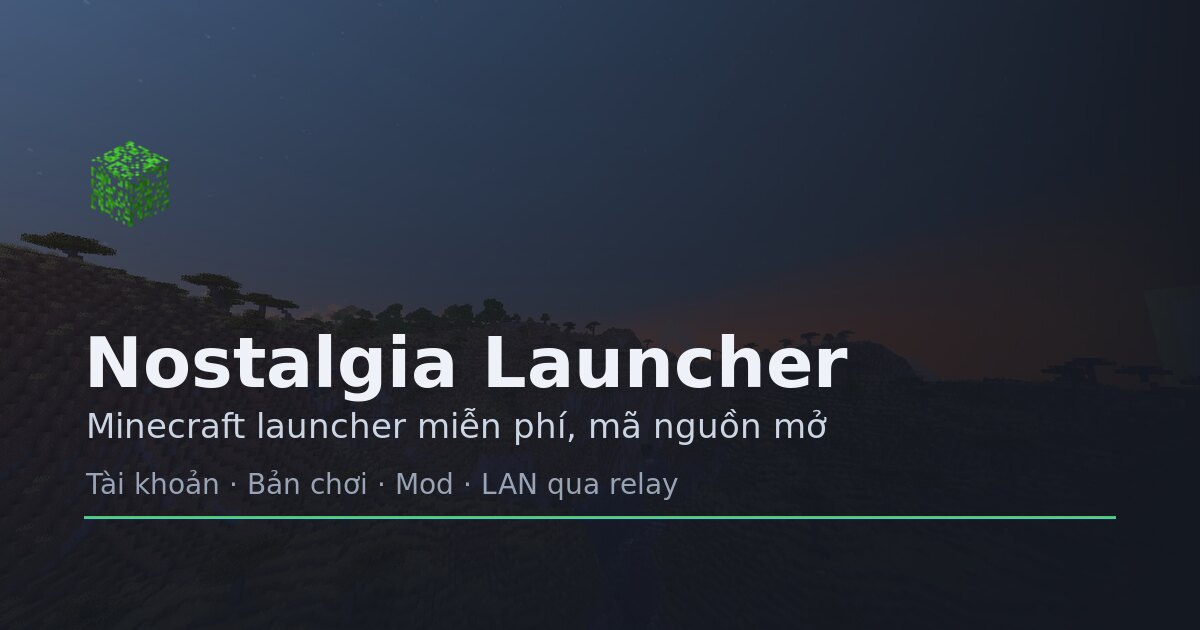
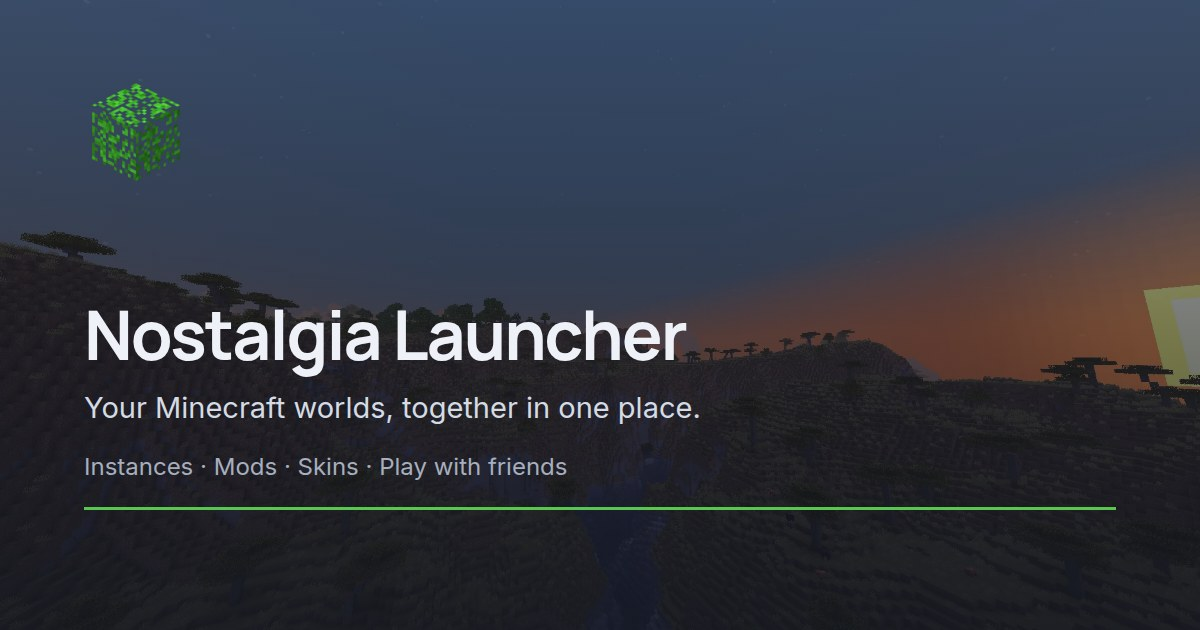
Refresh the English share preview card

diff --git a/bench/site_card.html b/bench/site_card.html
@@ -1,0 +1,51 @@
+<!doctype html>
+<!-- Nguồn ảnh chia sẻ: render 1200×630 bằng trình duyệt, xuất JPEG vào docs/site/og-card.jpg.
+     Dùng lại ảnh, logo và font của trang tải; không gọi dịch vụ bên ngoài. -->
+<html lang="en">
+  <head>
+    <meta charset="utf-8" />
+    <title>Nostalgia Launcher share card</title>
+    <style>
+      @font-face {
+        font-family: Inter;
+        src: url("../docs/site/fonts/Inter-Regular.ttf");
+      }
+      @font-face {
+        font-family: Manrope;
+        src: url("../docs/site/fonts/Manrope-Bold.ttf");
+        font-weight: 700;
+      }
+      * { box-sizing: border-box; }
+      body {
+        margin: 0;
+        width: 1200px;
+        height: 630px;
+        overflow: hidden;
+        color: #eef1f7;
+        background:
+          linear-gradient(180deg, #14182155, #141821cc),
+          url("../docs/site/hero.webp") center / cover;
+        font-family: Inter, sans-serif;
+      }
+      main { padding: 80px 84px; }
+      img { width: 104px; height: 104px; }
+      h1 {
+        margin: 106px 0 0;
+        font: 700 68px / 1.2 Manrope, sans-serif;
+        letter-spacing: -2px;
+      }
+      p { margin: 14px 0 0; font-size: 29px; color: #d4dbe5; }
+      .features { margin-top: 27px; font-size: 24px; color: #a6afbf; }
+      .line { height: 3px; margin-top: 26px; background: #5ac54f; }
+    </style>
+  </head>
+  <body>
+    <main>
+      <img src="../docs/site/logo.webp" alt="" />
+      <h1>Nostalgia Launcher</h1>
+      <p>Your Minecraft worlds, together in one place.</p>
+      <p class="features">Instances · Mods · Skins · Play with friends</p>
+      <div class="line"></div>
+    </main>
+  </body>
+</html>

diff --git a/docs/site/index.html b/docs/site/index.html
@@ -27,7 +27,7 @@
     />
     <meta
       property="og:image"
-      content="https://junxmas.github.io/NostalgiaLauncher/site/og-card.jpg"
+      content="https://junxmas.github.io/NostalgiaLauncher/site/og-card.jpg?v=english"
     />
     <meta property="og:image:width" content="1200" />
     <meta property="og:image:height" content="630" />

diff --git a/docs/site/CREDITS.md b/docs/site/CREDITS.md
@@ -55,6 +55,13 @@ nhánh thiết kế đã kiểm tra ở rc11. Chuyển sang WebP q82 để giả
 Key art bên trong launcher có nguồn ghi tại
 `src/nostalgia/ui/qml/assets/keyart/CREDITS.md`; icon dự án thuộc tác giả tương ứng.
 
+## `og-card.jpg`
+
+Ảnh chia sẻ tiếng Anh được render từ `bench/site_card.html` ở kích thước 1200×630,
+dùng lại `hero.webp`, `logo.webp` và font của trang. Mẫu HTML không tải dữ liệu ngoài.
+Xuất ảnh PNG bằng Chrome headless rồi chuyển sang JPEG RGB q88, tối ưu dung lượng.
+Nội dung không gọi giấy phép hiện tại là mã nguồn mở.
+
 ## `fonts/`
 
 Inter và Manrope được tự lưu trữ, không gọi dịch vụ font hay tracking bên ngoài.
